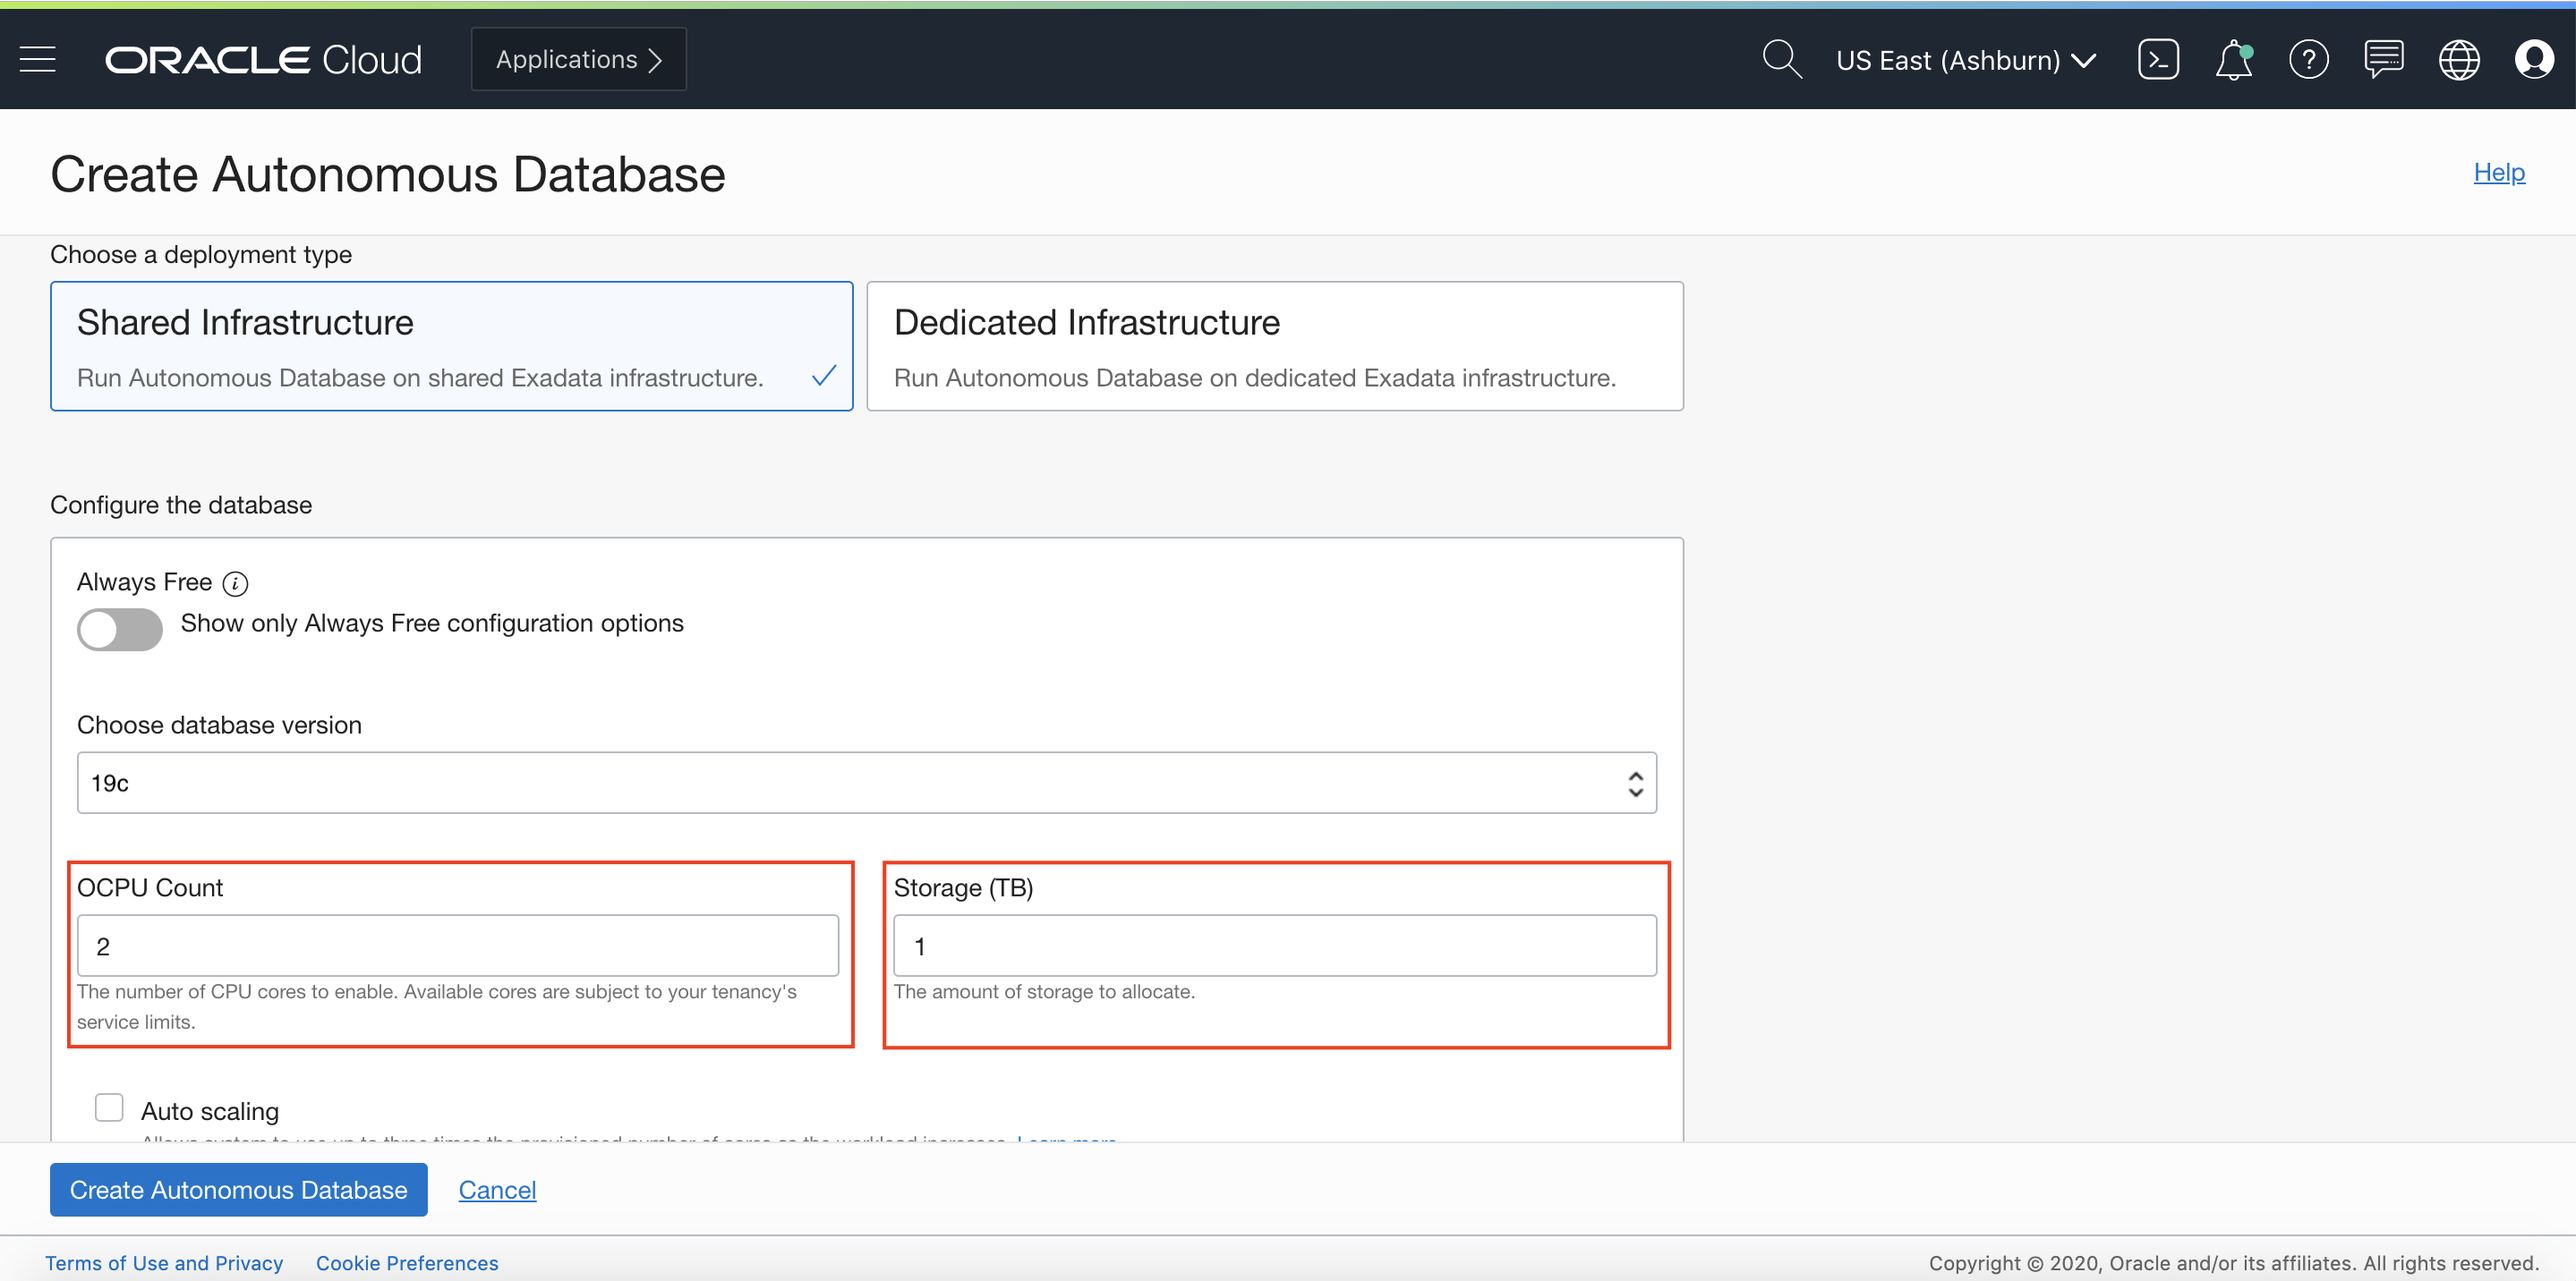
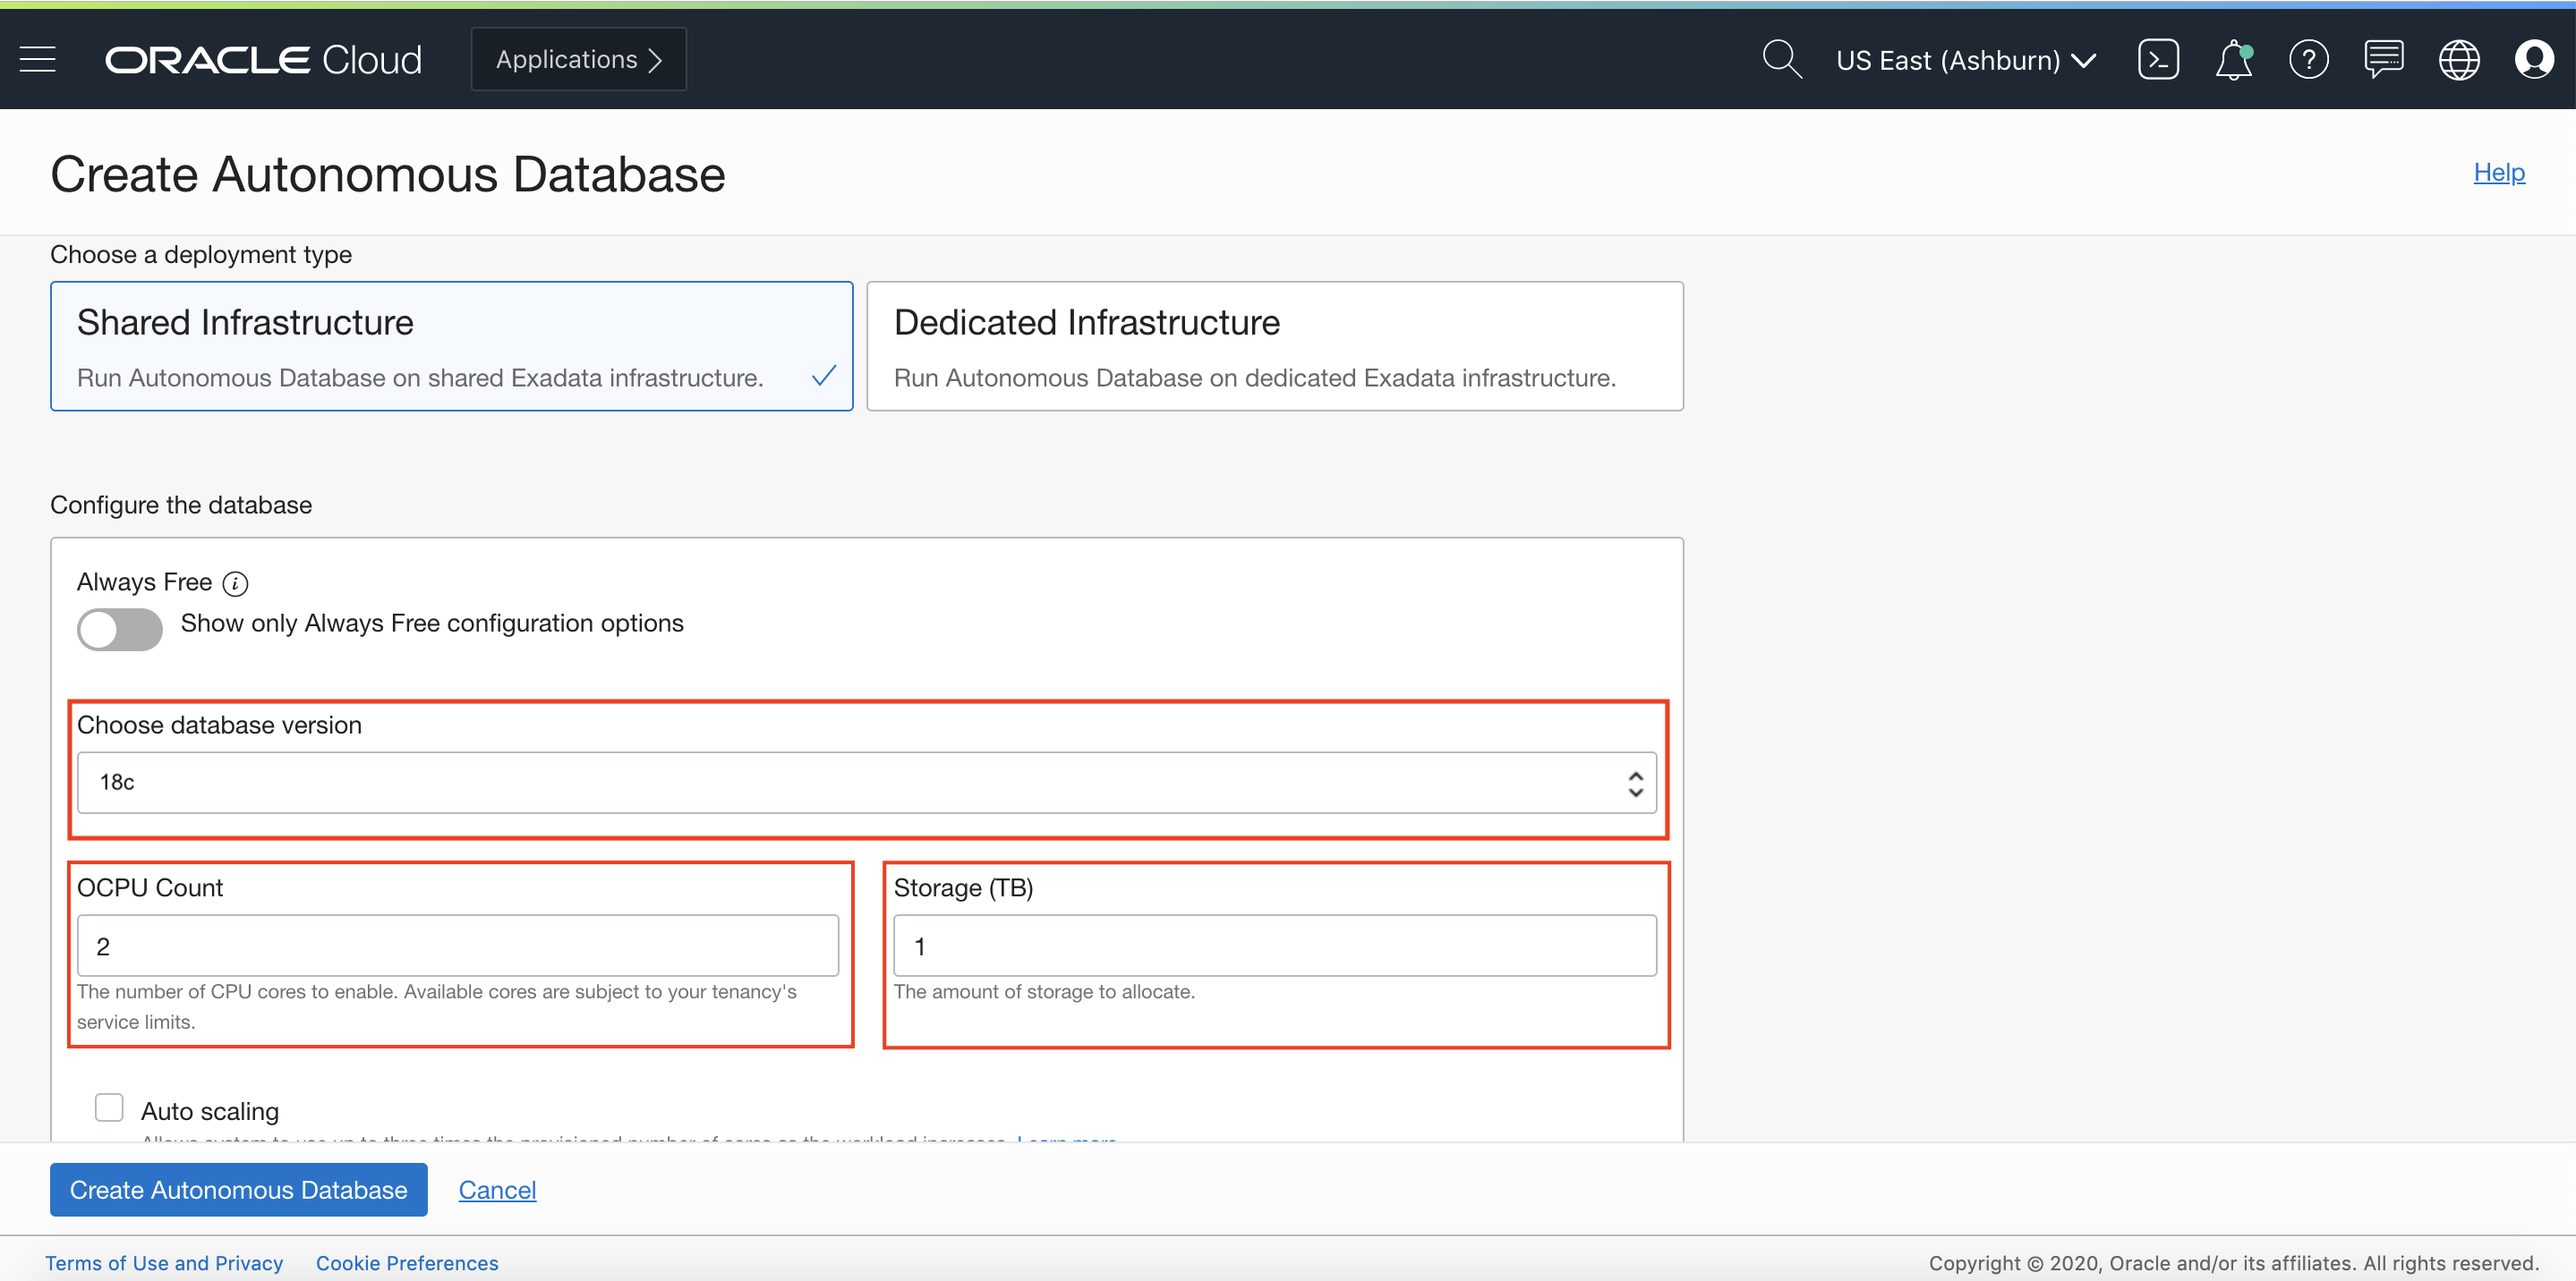
updated db version to 18c

Changed region(s): [[0.0309, 0.6453, 0.6494, 0.676], [0.0309, 0.5223, 0.6494, 0.5531]]

diff --git a/Lab100/LabGuide100.md b/Lab100/LabGuide100.md
@@ -67,7 +67,7 @@ This lab walks you through the steps to get started using the Oracle Autonomous 
 
 ![](./images/adw0.png " ")
 
-- Then, scroll down and select the CPU core count and Storage (TB) size. Here, we use 2 CPU and 1 TB of storage.
+- First, select **18c** as your database version from the drop down.  Then, select the CPU core count and Storage (TB) size. Here, we use 2 CPU and 1 TB of storage.
 
 ![](./images/adw1img.png " ")
 
